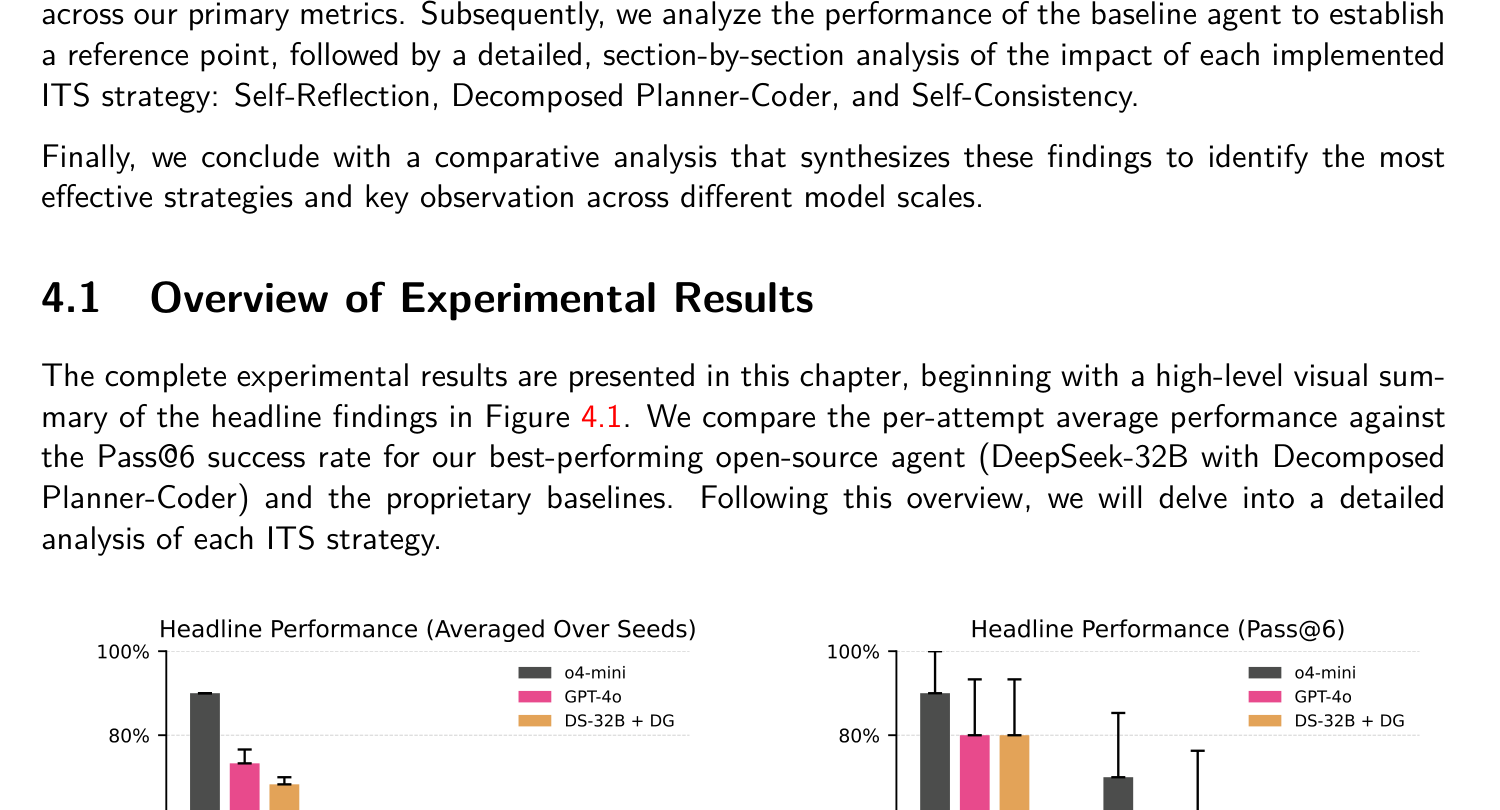
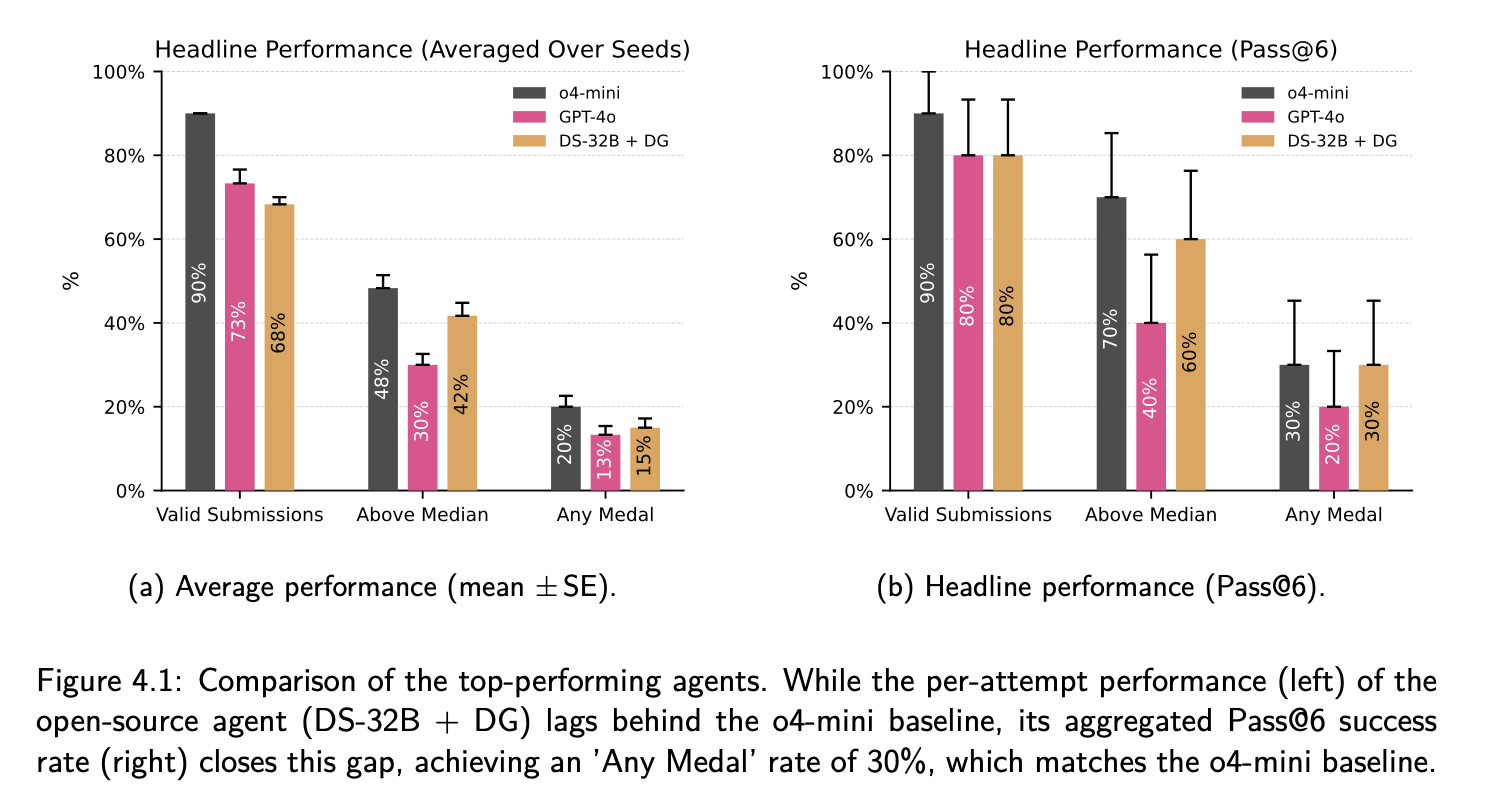
feat: add clean thesis figures (methodology + results diagrams)

diff --git a/projects/research/its-thesis.html b/projects/research/its-thesis.html
@@ -133,7 +133,14 @@
                 </div>
 
                 <h3 class="text-lg font-semibold mb-4">ITS Strategies Implemented</h3>
-                <div class="grid md:grid-cols-3 gap-4">
+                
+                <!-- AIDE Base Framework -->
+                <div class="bg-white p-4 rounded-xl border mb-6">
+                    <img src="/assets/thesis/fig_3_1_aide_tree.png" alt="AIDE Solution Tree" class="w-full max-w-2xl mx-auto rounded-lg">
+                    <p class="text-sm text-gray-500 text-center mt-2">Figure 3.1: AIDE solution tree - drafting, fixing, and improvement steps</p>
+                </div>
+
+                <div class="grid md:grid-cols-3 gap-4 mb-6">
                     <div class="bg-amber-50 p-4 rounded-lg border border-amber-200">
                         <div class="text-2xl mb-2">🔄</div>
                         <h4 class="font-semibold text-amber-800">Self-Reflection</h4>
@@ -150,6 +157,22 @@
                         <p class="text-sm text-green-700 mt-1">Separate Planner + Coder agents. <strong>Most effective for 32B.</strong></p>
                     </div>
                 </div>
+
+                <!-- Strategy Diagrams -->
+                <div class="grid md:grid-cols-2 gap-4 mb-6">
+                    <div class="bg-white p-4 rounded-xl border">
+                        <img src="/assets/thesis/fig_3_2_self_reflection.png" alt="Self-Reflection" class="w-full rounded-lg">
+                        <p class="text-xs text-gray-500 text-center mt-2">Figure 3.2: Self-Reflection workflow</p>
+                    </div>
+                    <div class="bg-white p-4 rounded-xl border">
+                        <img src="/assets/thesis/fig_3_3_planner_coder.png" alt="Planner-Coder" class="w-full rounded-lg">
+                        <p class="text-xs text-gray-500 text-center mt-2">Figure 3.3: Planner-Coder decomposition</p>
+                    </div>
+                </div>
+                <div class="bg-white p-4 rounded-xl border mb-6">
+                    <img src="/assets/thesis/fig_3_4_self_consistency.png" alt="Self-Consistency" class="w-full max-w-xl mx-auto rounded-lg">
+                    <p class="text-xs text-gray-500 text-center mt-2">Figure 3.4: Self-Consistency - sample N scripts, execute, pick winner</p>
+                </div>
             </section>
 
             <!-- Results -->
@@ -159,7 +182,7 @@
                 <!-- Figure 4.1: Headline Performance -->
                 <div class="mb-8">
                     <div class="bg-white p-4 rounded-xl border">
-                        <img src="/assets/thesis/results_page_28.png" alt="Headline Performance Comparison" class="w-full rounded-lg">
+                        <img src="/assets/thesis/fig_4_1_headline.png" alt="Headline Performance Comparison" class="w-full rounded-lg">
                         <p class="text-sm text-gray-500 text-center mt-3">Figure 4.1: Comparison of top-performing agents. DS-32B + Decomposed achieves 30% medal rate (Pass@6), matching o4-mini.</p>
                     </div>
                 </div>
@@ -167,7 +190,7 @@
                 <!-- Figure 4.2: Comparative Analysis -->
                 <div class="mb-8">
                     <div class="bg-white p-4 rounded-xl border">
-                        <img src="/assets/thesis/results_page_34.png" alt="Comparative Analysis" class="w-full rounded-lg">
+                        <img src="/assets/thesis/fig_4_2_comparative.png" alt="Comparative Analysis" class="w-full rounded-lg">
                         <p class="text-sm text-gray-500 text-center mt-3">Figure 4.2: Any Medal % (Pass@6) across all configurations. Task decomposition provides the biggest gains for the 32B model.</p>
                     </div>
                 </div>
